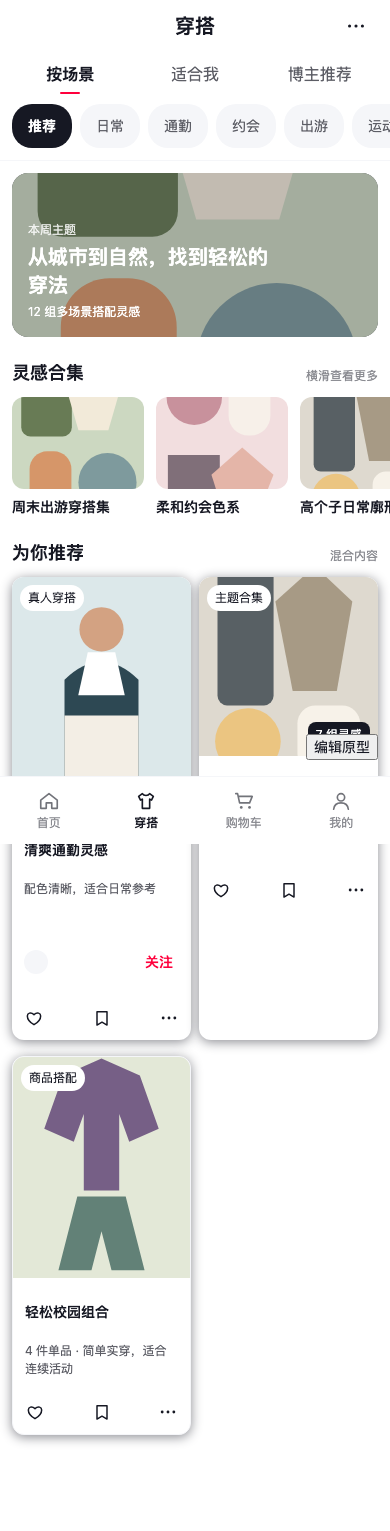
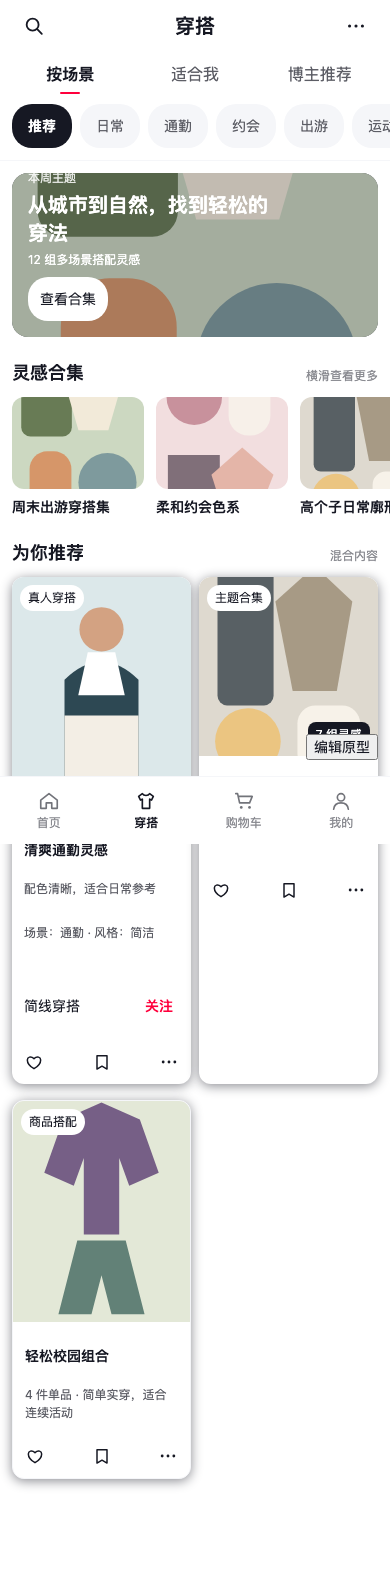
test: verify final outfit browsing flows

diff --git a/work/douyin-outfit-content-feed/demo-summary.md b/work/douyin-outfit-content-feed/demo-summary.md
@@ -12,11 +12,11 @@
 
 结论：`DONE`。首次截图审查发现隐藏的 `#status` 仍参与布局并产生约 1600px 异常空白；产品修复 `90bc2614d73d9d1e9adfee04a524ecb4a9be3fea` 增加 `.status[hidden] { display:none }` 后，已重新执行全量浏览器验收、替换全部截图并人工复核。异常空白在两个视口均已消失，视觉门禁通过。
 
-浏览器验收：使用仓库外的 bundled Playwright，从 `index.html` 入口 UI 在 390×844 与 320×700 两个视口分别独立执行完整交互套件。最终结果为 `114 browser checks passed`、退出码 0；两个视口均验证 `#status` 隐藏、计算样式为 `display:none` 且布局高度为 0。每个视口都覆盖三个频道及其全部筛选、三类卡片详情与返回上下文、喜欢/收藏/关注/不感兴趣/撤销、状态菜单的加载/空/失败/图片失败/正常及清除筛选和重试、按卡片类型保持图片失败占比、编辑标题/应用/撤销/预览隐藏且 inert、快速切换 latest-wins、加载中打开详情不被覆盖，以及横向溢出、固定栏空间、图片 natural dimensions、页面错误和控制台错误。
+浏览器验收：使用仓库外的 bundled Playwright，从 `index.html` 入口 UI 在 390×844 与 320×700 两个视口分别独立执行完整交互套件。最终结果为 `160 browser checks passed`、退出码 0；两个视口均验证 `#status` 隐藏、计算样式为 `display:none` 且布局高度为 0。每个视口都覆盖三个频道及其全部筛选、三类卡片详情与返回上下文、搜索过滤/无结果清除/关闭与焦点恢复、主题头图进入合集、三类比例骨架屏、保留内容的内联错误与重试、反馈失败回滚与重试、作者昵称和场景/风格标签、非当前底部导航禁用状态、喜欢/收藏/关注/不感兴趣/撤销、加载/空/失败/图片失败/正常状态、编辑标题与位置尺寸、最大请求值安全收敛、几何撤销和排除控件、预览隐藏且 inert、快速切换 latest-wins、加载中打开详情不被覆盖，以及横向溢出、固定栏空间、图片 natural dimensions、页面错误和控制台错误。
 
-证据稳定性：截图前重新载入标准首页状态，等待 ready 内容、toast 脱离 DOM、目标视图可见、连续两帧布局稳定，并滚动到标准顶部位置。完整脚本连续执行两次均为 114/114 通过，第二次生成的四张 PNG 与第一次逐字节相同：`detail-320x700 d204e6c8…`、`detail-390x844 2049e84e…`、`feed-320x700 7bc9e9d0…`、`feed-390x844 2c9f25ee…`；截图中无残留“筛选已清除”提示。Playwright 由 `CODEX_NODE_MODULES`、`NODE_PATH` 或当前用户的 bundled runtime 路径发现，不依赖固定账号目录。
+证据稳定性：截图前重新载入标准首页状态，等待 ready 内容、toast 脱离 DOM、目标视图可见、连续两帧布局稳定，并滚动到标准顶部位置。完整脚本连续执行两次均为 160/160 通过，第二次生成的四张 PNG 与第一次逐字节相同：`detail-320x700 9bd49ac7…`、`detail-390x844 3758f6af…`、`feed-320x700 cfd5e5cd…`、`feed-390x844 0ed59028…`；截图中无残留状态提示。Playwright 由 `CODEX_NODE_MODULES`、`NODE_PATH` 或当前用户的 bundled runtime 路径发现，不依赖固定账号目录。
 
-Task 1–5 自动测试：`node --test qa/outfit-content-feed-state.test.mjs qa/outfit-content-feed-contract.test.mjs`，31/31 通过，0 失败，退出码 0。
+Task 1–5 自动测试：`node --test qa/outfit-content-feed-state.test.mjs qa/outfit-content-feed-contract.test.mjs`，35/35 通过，0 失败，退出码 0。
 
 已安装 Skill 门禁（`/Users/bytedance/.codex/skills/prd-to-editable-demo`）：
 
